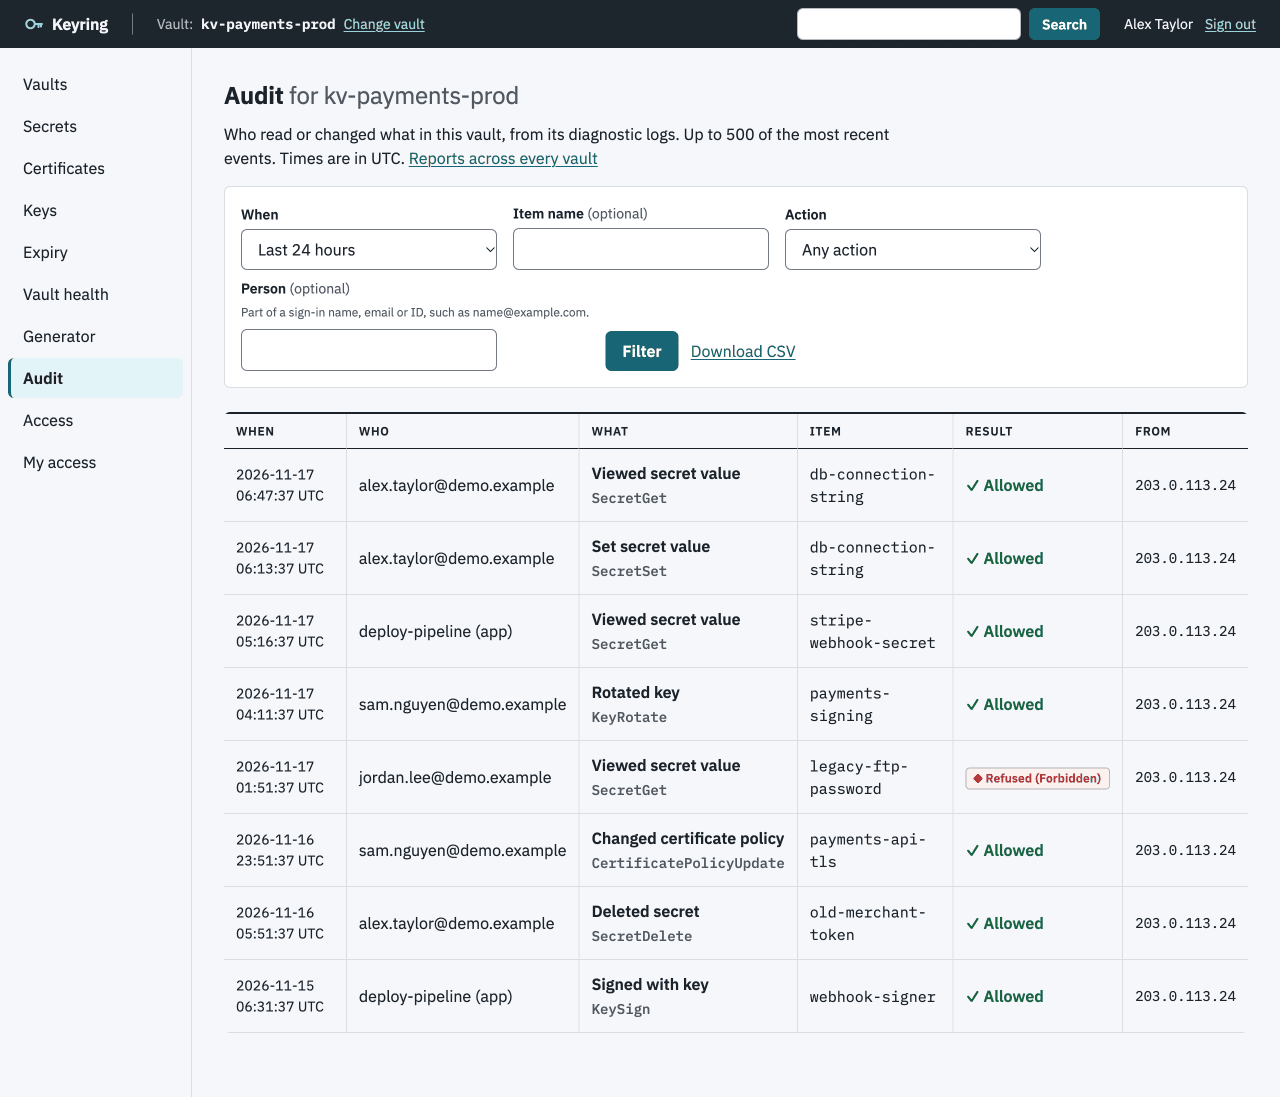
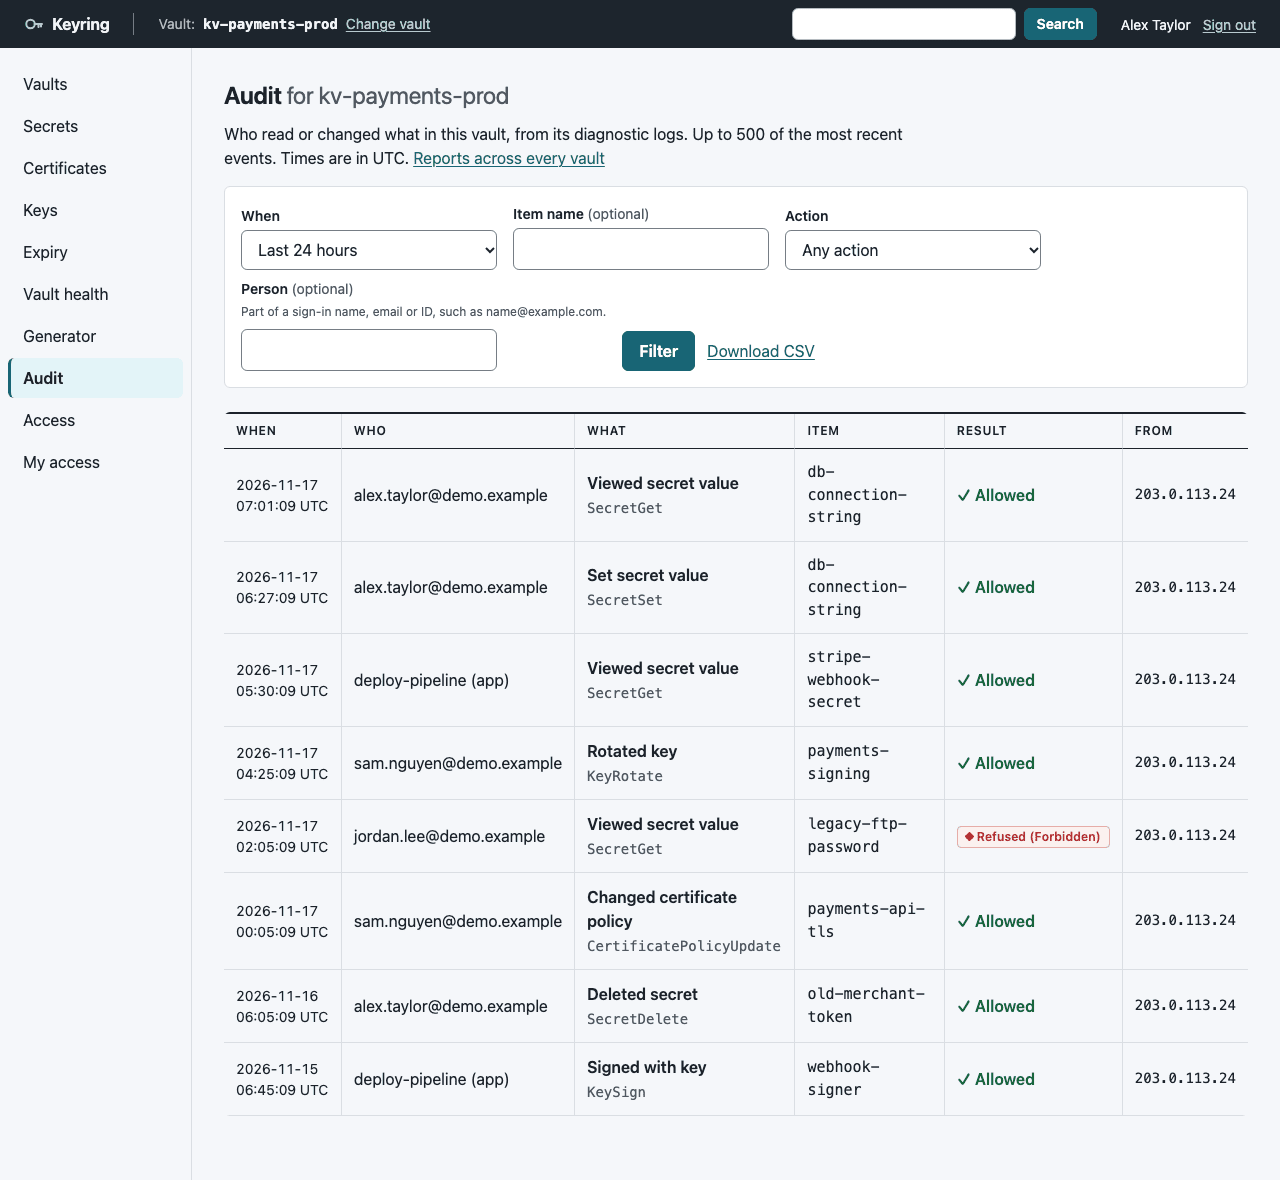
style: use native system fonts

diff --git a/static/style.css b/static/style.css
@@ -4,38 +4,6 @@
    tokens below; design.md says what each one is for and lists the contrast
    ratio of every pair used. */
 
-/* IBM Plex, served by Keyring itself (SIL Open Font License, see
-   static/fonts/OFL.txt). Latin subset. Sans is one variable file for every
-   weight; Mono has the three weights the styles use. */
-@font-face {
-  font-family: "IBM Plex Sans";
-  src: url("/static/ibm-plex-sans-5.3.0.woff2") format("woff2");
-  font-weight: 100 700;
-  font-style: normal;
-  font-display: swap;
-}
-@font-face {
-  font-family: "IBM Plex Mono";
-  src: url("/static/ibm-plex-mono-400-5.3.0.woff2") format("woff2");
-  font-weight: 400;
-  font-style: normal;
-  font-display: swap;
-}
-@font-face {
-  font-family: "IBM Plex Mono";
-  src: url("/static/ibm-plex-mono-500-5.3.0.woff2") format("woff2");
-  font-weight: 500;
-  font-style: normal;
-  font-display: swap;
-}
-@font-face {
-  font-family: "IBM Plex Mono";
-  src: url("/static/ibm-plex-mono-600-5.3.0.woff2") format("woff2");
-  font-weight: 600;
-  font-style: normal;
-  font-display: swap;
-}
-
 :root {
   /* Surfaces */
   --color-paper: oklch(97.6% 0.004 250);
@@ -75,9 +43,9 @@
   /* The idle notice's lift off the page */
   --color-shadow: oklch(25% 0.018 255 / 0.12);
 
-  /* IBM Plex, with system fallbacks. Mono is for values, names and identifiers. */
-  --font-body: "IBM Plex Sans", system-ui, -apple-system, "Segoe UI", sans-serif;
-  --font-mono: "IBM Plex Mono", ui-monospace, SFMono-Regular, Menlo, Consolas, monospace;
+  /* Native system fonts. Mono is for values, names and identifiers. */
+  --font-body: system-ui, -apple-system, BlinkMacSystemFont, "Segoe UI", sans-serif;
+  --font-mono: ui-monospace, SFMono-Regular, Menlo, Consolas, monospace;
 
   --text-xs: 0.75rem;
   --text-sm: 0.875rem;

diff --git a/design.md b/design.md
@@ -112,24 +112,17 @@ the controls carry the meaning, so it has no contrast need.
 
 ## Typography
 
-IBM Plex, served by Keyring from `static/fonts/` (SIL Open Font License,
-`static/fonts/OFL.txt`). Nothing is fetched from a font service; the CSP
-allows `font-src 'self'` only. The owner chose Plex on 13-11-2026 because
-the system stack read as generic: Plex is an engineering face with squared
-curves, which suits a security console.
+Use the operating system's native fonts. The owner requested this on
+17 November 2026 to replace the stylised Plex typography.
 
-- `--font-body`: `"IBM Plex Sans", system-ui, -apple-system, "Segoe UI", sans-serif`.
-  Used for everything, headings included. One variable file, latin subset,
-  weights 100 to 700.
-- `--font-mono`: `"IBM Plex Mono", ui-monospace, SFMono-Regular, Menlo, Consolas, monospace`.
-  Weights 400, 500 and 600. Only for values, names and identifiers: vault,
-  secret, certificate and key names, version IDs, thumbprints, tags,
-  operations, IP addresses and the revealed value.
-- Font files carry their Fontsource release in the name
-  (`ibm-plex-sans-5.3.0.woff2`) and are cached for a year. A new release is
-  a new file name. `font-display: swap`, so text shows at once in the
-  fallback.
-- No italic files are shipped. Nothing in Keyring is set in italic.
+- `--font-body`: `system-ui, -apple-system, BlinkMacSystemFont, "Segoe UI", sans-serif`.
+  Used for the interface, including headings, labels and controls.
+- `--font-mono`: `ui-monospace, SFMono-Regular, Menlo, Consolas, monospace`.
+  Only for values, names and identifiers: vault, secret, certificate and key
+  names, version IDs, thumbprints, tags, operations, IP addresses and the
+  revealed value.
+- The UI loads no font files. Rendering follows the user's operating system.
+- Nothing in Keyring is set in italic.
 - Numbers line up: `font-variant-numeric: tabular-nums` on tables, fact lists,
   badges, tiles, the pager and the countdown.
 - Scale: `--text-xs` 0.75rem (column headers, badges), `--text-sm` 0.875rem
@@ -478,8 +471,8 @@ they are.
   --color-accent-rule: oklch(80% 0.05 215);
   --color-accent-ink: oklch(100% 0 0);
   --color-focus: oklch(40% 0.07 215);
-  --font-body: "IBM Plex Sans", system-ui, -apple-system, "Segoe UI", sans-serif;
-  --font-mono: "IBM Plex Mono", ui-monospace, SFMono-Regular, Menlo, Consolas, monospace;
+  --font-body: system-ui, -apple-system, BlinkMacSystemFont, "Segoe UI", sans-serif;
+  --font-mono: ui-monospace, SFMono-Regular, Menlo, Consolas, monospace;
   --space-3xs: 0.25rem; --space-2xs: 0.5rem; --space-xs: 0.75rem;
   --space-sm: 1rem; --space-md: 1.5rem; --space-lg: 2rem; --space-xl: 3rem;
   --radius: 6px; --radius-sm: 4px;

diff --git a/README.md b/README.md
@@ -14,7 +14,7 @@ Keyring is written in Rust (Axum and Askama) and ships as a single Docker image.
 
 ## Screenshots
 
-These show the current Keyring app running against the mock Azure services from the test suite. Screenshots refreshed on 17 November 2026; every vault, name and value is made up.
+These show the current Keyring app running against the mock Azure services from the test suite. Screenshots refreshed on 17 November 2026; every vault, name and value is made up. The interface uses native system fonts, so text follows the operating system you use.
 
 ### Home
 
